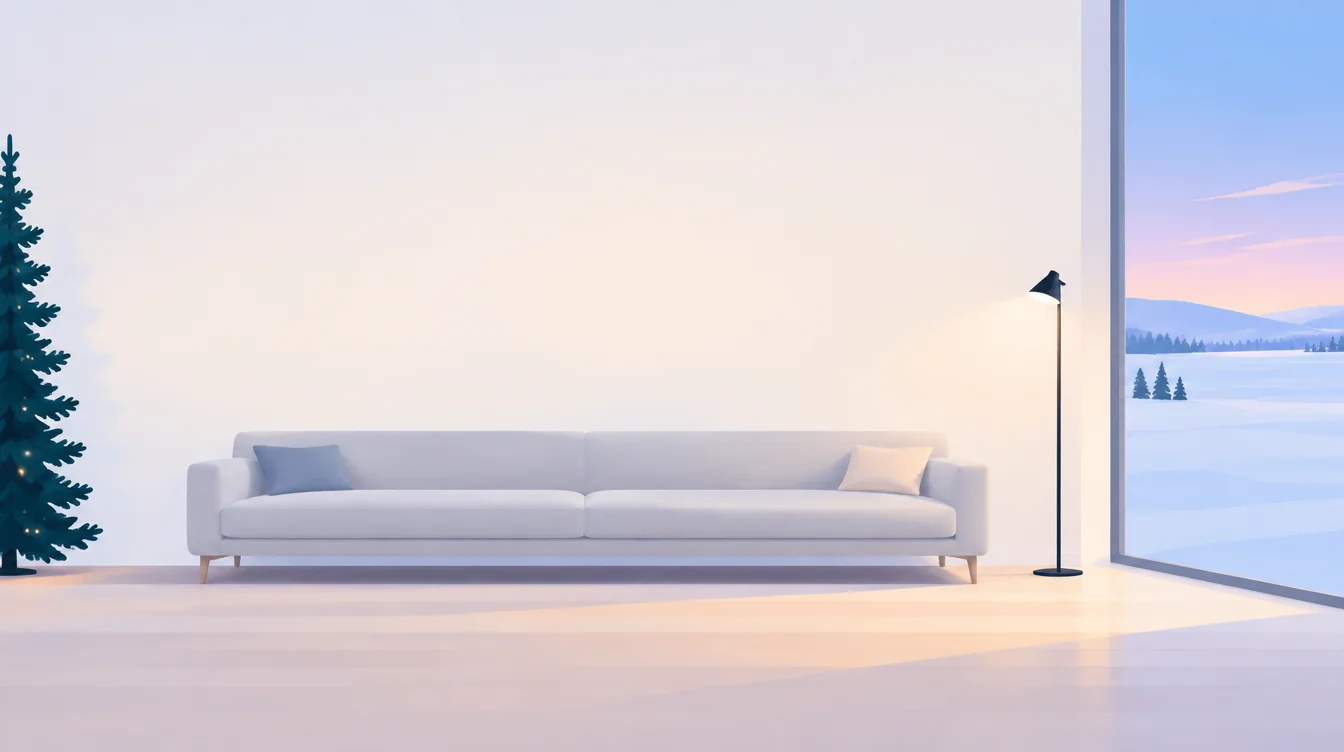
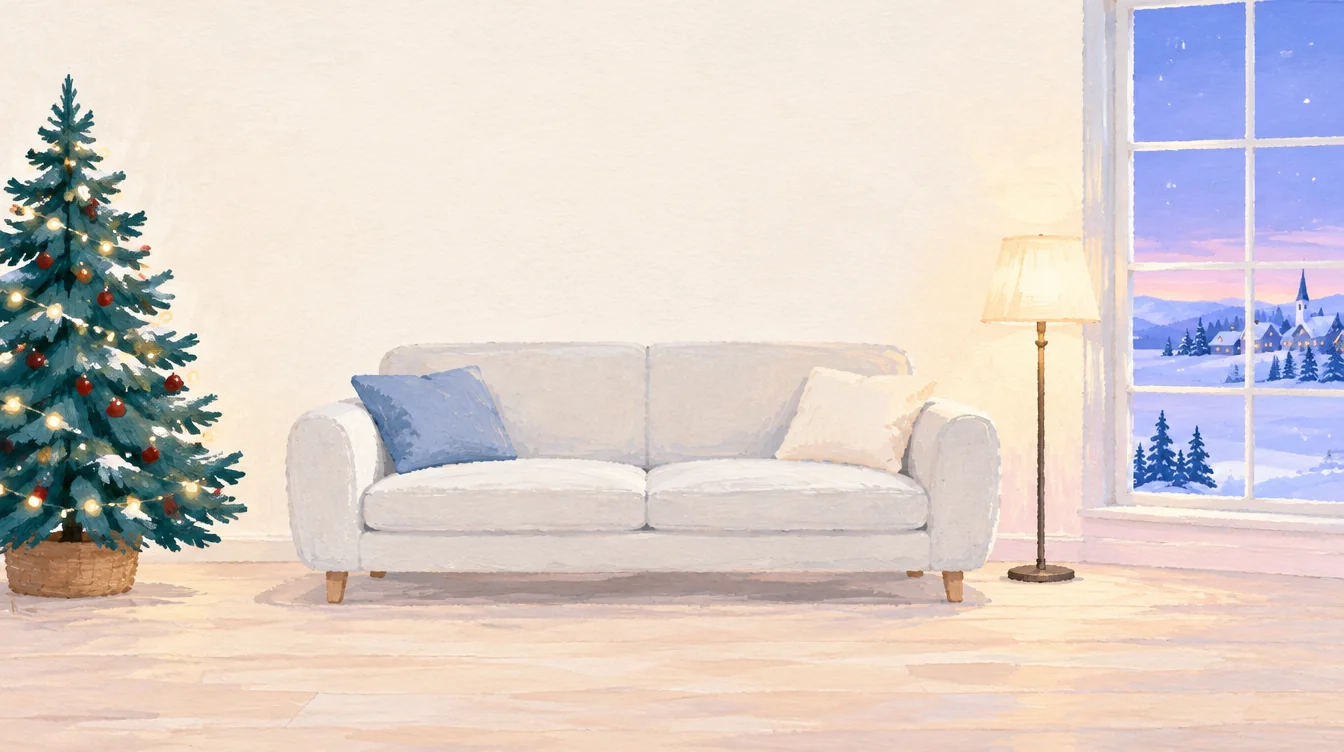
Adventskalender v5: art over the sofa, words underneath, room in the ride's style

diff --git a/onsite-alignment/farben-des-winters-v5/js/advent/calendar.js b/onsite-alignment/farben-des-winters-v5/js/advent/calendar.js
@@ -23,7 +23,7 @@
     return e;
   };
 
-  /* deps: { sched, t, track, lang(), now(), opened(), busy(), plate(), wallRect(), onRide(entry, door), onCard(entry, from),
+  /* deps: { sched, t, track, lang(), now(), opened(), busy(), plate(), room() -> { sofa }, onRide(entry, door), onCard(entry, from),
      onDirect(entry), onMissed(entry), demo, search } */
   let reopenSheet = false;
   function init(deps) {
@@ -31,6 +31,7 @@
     el = document.getElementById('calendar');
     document.addEventListener('visibilitychange', () => { if (document.visibilityState !== 'hidden' && el && !el.hidden) show(); });
     document.addEventListener('keydown', (e) => { if (e.key === 'Escape' && el && !el.hidden) closeSheet(); });
+    addEventListener('resize', layout);
   }
 
   function title(today, state, now) {
@@ -149,21 +150,16 @@
     const date = new Intl.DateTimeFormat(D.lang() === 'de' ? 'de-DE' : 'en-GB', { day: 'numeric', month: 'long', timeZone: 'Europe/Berlin' }).format(now);
     const big = bigDoor(today, state, now);
     const direct = state === 'open' && today.type !== 'finale' && !D.busy();
-    const stage = h('div', { class: `cal-stage${big ? '' : ' no-door'}` },
-      big,
-      h('div', { class: 'cal-label' },
+    const label = h('div', { class: 'cal-label' },
         h('p', { class: 'eyebrow' }, date),
         h('p', { class: 'cal-title' }, title(today, state, now)),
         state === 'open' ? h('p', { class: 'cal-hint' }, D.t('calHint')) : null,
         h('p', { class: 'cal-links' },
           h('button', { class: 'link cal-all', type: 'button', onclick: openSheet }, D.t('allDoors')),
-          direct ? h('button', { class: 'link cal-direct', type: 'button', onclick: () => D.onDirect(today) }, D.t('direct')) : null)));
-    /* the stage sits on the living-room wall */
-    const w = D.wallRect ? D.wallRect() : null;
-    if (w) {
-      const top = Math.max(w.y, 64);
-      stage.style.cssText = `left:${Math.max(w.x, 0)}px;top:${top}px;width:${Math.min(w.x + w.w, innerWidth) - Math.max(w.x, 0)}px;--wall-h:${w.y + w.h - top}px`;
-    }
+          direct ? h('button', { class: 'link cal-direct', type: 'button', onclick: () => D.onDirect(today) }, D.t('direct')) : null));
+    const ground = h('div', { class: 'cal-ground' });
+    const stage = h('div', { class: 'cal-stage' }, ground, big, label);
+    cur = { big, label, ground };
     const sheet = h('div', { class: 'cal-sheet', hidden: true, role: 'dialog', 'aria-modal': 'true', 'aria-label': D.t('allDoorsTitle') });
     const picker = D.demo && new URLSearchParams(D.search).has('demo') ? demoBar(now) : null;
     /* the room lives: warm light breathes round today's door */
@@ -171,6 +167,7 @@
     el.replaceChildren(h('img', { class: 'cal-plate', src: D.plate(), alt: '' }), stage, sheet, picker);
     if (big) big.prepend(glow);
     el.hidden = false;
+    layout();
     if (reopenSheet) { reopenSheet = false; openSheet(); }
     D.track('gal_calendar', { gal_today: state === 'open' || state === 'opened' ? today.day : null, gal_opened: opened.size });
   }
@@ -191,6 +188,29 @@
       h('span', { class: 'cal-demo-day' }, date),
       day < 24 ? h('a', { class: 'cal-demo-next', href: go(day + 1), 'aria-label': D.t('demoNext') }, '→') : h('span', { class: 'cal-demo-next', 'aria-hidden': 'true' }, '→'),
       h('button', { class: 'cal-demo-reset', type: 'button', onclick: reset }, D.t('demoReset')));
+  }
+
+  /* where things go in the room: today's work centred over the sofa, its lower edge a hand's width above the back
+     (at most 62% of the sofa's width, never into the top bar); the words underneath the sofa on the ivory floor */
+  let cur = null;
+  let room = null;
+  function layout() {
+    if (!cur || !el || el.hidden) return;
+    const { sofa } = D.room();
+    room = { sofa };
+    const cx = sofa.x + sofa.w / 2;
+    if (cur.big) {
+      const r = parseFloat(cur.big.style.getPropertyValue('--r')) || 0.75;
+      const gap = Math.max(12, Math.min(30, sofa.h * 0.18));
+      const maxW = Math.min(sofa.w * 0.62, innerWidth - 32, 560);
+      const maxH = Math.max(90, sofa.y - gap - 76);
+      const w = Math.min(maxW, maxH * r);
+      const hh = w / r;
+      Object.assign(cur.big.style, { left: `${cx - w / 2}px`, top: `${sofa.y - gap - hh}px`, width: `${w}px`, height: `${hh}px` });
+    }
+    const lw = Math.min(400, innerWidth - 32);
+    Object.assign(cur.label.style, { left: `${Math.max(16, Math.min(innerWidth - 16 - lw, cx - lw / 2))}px`, top: `${sofa.y + sofa.h + 12}px`, width: `${lw}px` });
+    cur.ground.style.top = `${sofa.y + sofa.h - 28}px`;
   }
 
   /* all 24 doors, behind a link */
@@ -246,5 +266,5 @@
     a.finished.catch(() => {}).then(() => { portal.getAnimations().forEach((x) => x.cancel()); portal.classList.remove('on'); });
   }
 
-  G.calendar = { init, show, hide, throughDoor, clearPortal, visible: () => !!el && !el.hidden };
+  G.calendar = { init, show, hide, throughDoor, clearPortal, visible: () => !!el && !el.hidden, room: () => room };
 })(window);

diff --git a/onsite-alignment/farben-des-winters-v5/css/advent.css b/onsite-alignment/farben-des-winters-v5/css/advent.css
@@ -18,35 +18,24 @@
 #calendar[hidden] { display: none; }
 #calendar .cal-plate { position: absolute; inset: 0; width: 100%; height: 100%; object-fit: cover; }
 
-/* the stage on the living-room wall: today's door, large, and a small label under it (beside it on wide screens) */
-#calendar .cal-stage { position: absolute; left: 0; top: 64px; width: 100%; --wall-h: 60vh; --door-h: min(calc(var(--wall-h) * .6), 46vh, 300px);
-  display: flex; flex-direction: column; align-items: center; gap: 18px; padding: 8px var(--gutter) 0; }
-/* the words sit on the wall: date, one line, a hint, two quiet links (centred under the parcel on a phone, beside it
-   and left-aligned on a wide screen) */
-#calendar .cal-label { position: relative; z-index: 0; max-width: 340px; text-align: center; animation: cal-panel-in 520ms cubic-bezier(.2, .8, .2, 1) 160ms both; }
-/* a soft light behind the words, no edge: they stay legible on any part of the wall */
-#calendar .cal-label::before { content: ""; position: absolute; inset: -28px -40px; z-index: -1; pointer-events: none;
-  background: radial-gradient(closest-side, rgba(254, 253, 249, .8), rgba(254, 253, 249, .55) 55%, rgba(254, 253, 249, 0)); }
+/* the room: today's work hangs over the sofa at a normal height, the words sit underneath on a soft ivory floor;
+   positions come from the sofa in the painting (calendar.js layout()) */
+#calendar .cal-stage { position: absolute; inset: 0; pointer-events: none; }
+#calendar .cal-stage > * { pointer-events: auto; }
+#calendar .cal-ground { position: absolute; left: 0; right: 0; bottom: 0; pointer-events: none !important;
+  background: linear-gradient(180deg, rgba(254, 253, 249, 0), rgba(254, 253, 249, .92) 40px, var(--ivory) 72px); }
+#calendar .cal-label { position: absolute; text-align: center; animation: cal-panel-in 520ms cubic-bezier(.2, .8, .2, 1) 160ms both; }
 #calendar .cal-label .eyebrow { font-size: 13px; letter-spacing: .1em; color: #3f3c38; }
-#calendar .cal-stage.no-door .cal-label { margin-top: calc(var(--wall-h) * .18); }
 @keyframes cal-panel-in { from { opacity: 0; transform: translateY(12px); } to { opacity: 1; transform: none; } }
-#calendar .cal-title { margin: 6px 0 0; font-family: var(--font-display); font-weight: 400; font-size: 30px; line-height: 1.1; color: var(--charcoal); text-wrap: balance; }
-#calendar .cal-hint { margin: 10px 0 0; font-size: 15px; line-height: 1.5; color: #3f3c38; }
-#calendar .cal-links { display: flex; flex-wrap: wrap; justify-content: center; gap: 6px 20px; margin: 16px 0 0; }
+#calendar .cal-title { margin: 4px 0 0; font-family: var(--font-display); font-weight: 400; font-size: 28px; line-height: 1.1; color: var(--charcoal); text-wrap: balance; }
+#calendar .cal-hint { margin: 8px 0 0; font-size: 15px; line-height: 1.45; color: #3f3c38; }
+#calendar .cal-links { display: flex; flex-wrap: wrap; justify-content: center; gap: 6px 20px; margin: 12px 0 0; }
 #calendar .cal-links .link { font-size: 14px; }
-@media (min-aspect-ratio: 1/1) {
-  #calendar .cal-stage { --door-h: min(calc(var(--wall-h) * .86), 62vh, 360px); flex-direction: row; justify-content: center; gap: 36px; padding-top: 0;
-    height: var(--wall-h); }
-  #calendar .cal-stage.no-door .cal-label { margin-top: 0; }
-  #calendar .cal-label { max-width: 400px; text-align: left; }
-  #calendar .cal-title { font-size: 44px; }
-  #calendar .cal-links { justify-content: flex-start; }
-}
+@media (min-aspect-ratio: 1/1) { #calendar .cal-title { font-size: 32px; } }
 
 /* today's door: today's work, wrapped in kraft paper with a red ribbon and bow and a tag with the day. Pull the ribbon
    (or tap): ribbon and bow go, the light comes up, and only then does the paper part */
-#calendar .today-door { position: relative; flex: none; width: min(calc(var(--door-h) * var(--r, .75)), calc(100vw - 2 * var(--gutter)), 560px);
-  aspect-ratio: var(--r, .75); padding: 0; border: 0; background: radial-gradient(closest-side, #fffaf0, #ffd79a 70%, #f2b45e);
+#calendar .today-door { position: absolute; left: 0; top: 0; padding: 0; border: 0; background: radial-gradient(closest-side, #fffaf0, #ffd79a 70%, #f2b45e);
   container-type: inline-size; touch-action: none; -webkit-tap-highlight-color: transparent;
   animation: cal-big-in 620ms cubic-bezier(.2, .8, .2, 1) both; }
 @keyframes cal-big-in { from { opacity: 0; transform: translateY(10px) scale(.97); } to { opacity: 1; transform: none; } }

diff --git a/onsite-alignment/farben-des-winters-v5/js/ride.js b/onsite-alignment/farben-des-winters-v5/js/ride.js
@@ -1221,8 +1221,12 @@
      (the phases keep their old names, 'street' and 'gallery') */
 
   const anchors = {
-    street: { door: { w: [0.627, 0.424, 0.71, 0.696], t: [0.678, 0.451, 0.811, 0.603] } },
-    gallery: { wall: { w: [0.1, 0.05, 0.75, 0.55], t: [0.08, 0.05, 0.9, 0.52] } },
+    street: { door: { w: [0.625, 0.447, 0.708, 0.718], t: [0.677, 0.491, 0.859, 0.7] } },
+    gallery: {
+      wall: { w: [0.2, 0.11, 0.75, 0.43], t: [0.1, 0.13, 0.9, 0.43] },
+      /* the sofa: today's work hangs over it on the calendar (left, top of the back, right, feet) */
+      sofa: { w: [0.213, 0.456, 0.745, 0.8], t: [0.09, 0.452, 0.92, 0.636] },
+    },
   };
   function plateBox(ar) {
     let pw;
@@ -1703,7 +1707,7 @@
       opened: openedNow,
       busy: () => ['ride', 'door', 'toStreet', 'street'].includes(S.phase),
       plate: () => `assets/scenes/home-in-${o()}.webp`,
-      wallRect: () => rectOn(plateBox(portrait ? 752 / 1344 : 1344 / 752), 'wall', 'gallery'),
+      room: () => ({ sofa: rectOn(plateBox(portrait ? 752 / 1344 : 1344 / 752), 'sofa', 'gallery') }),
       onRide: rideToday, onCard: showCard, onDirect: openDirect, onMissed: openMissed,
     });
     G.offer.init({ t, track, lang: () => LANG, now: nowMs, sched: SCHED, config: window.GAL_ADVENT.config, fmtNum, size, onCalendar: showCalendar });
